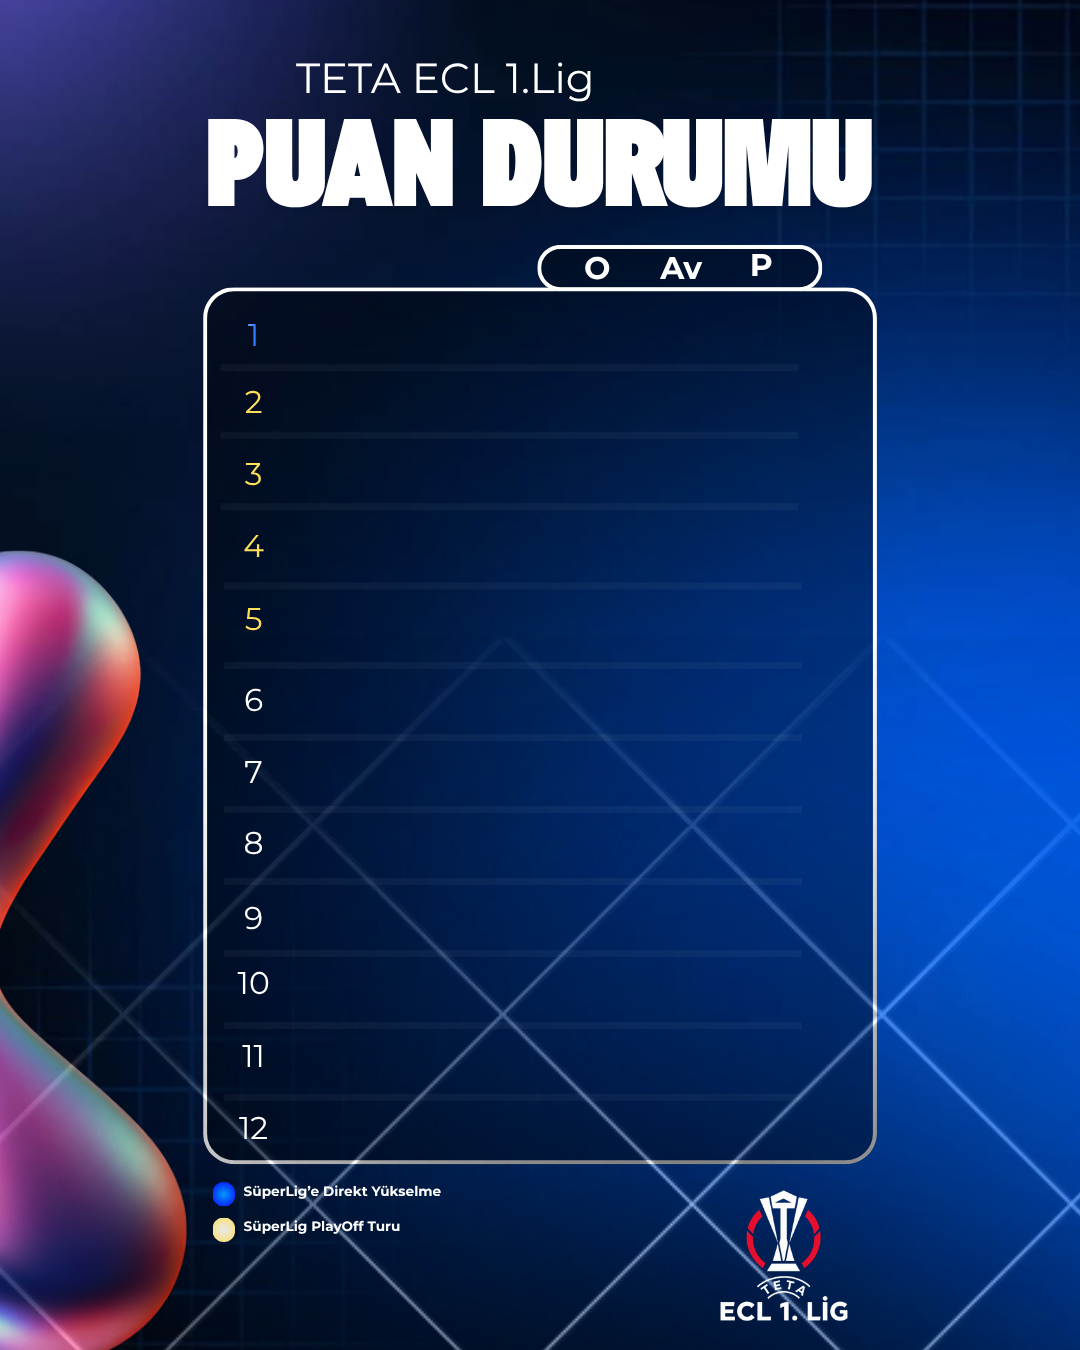
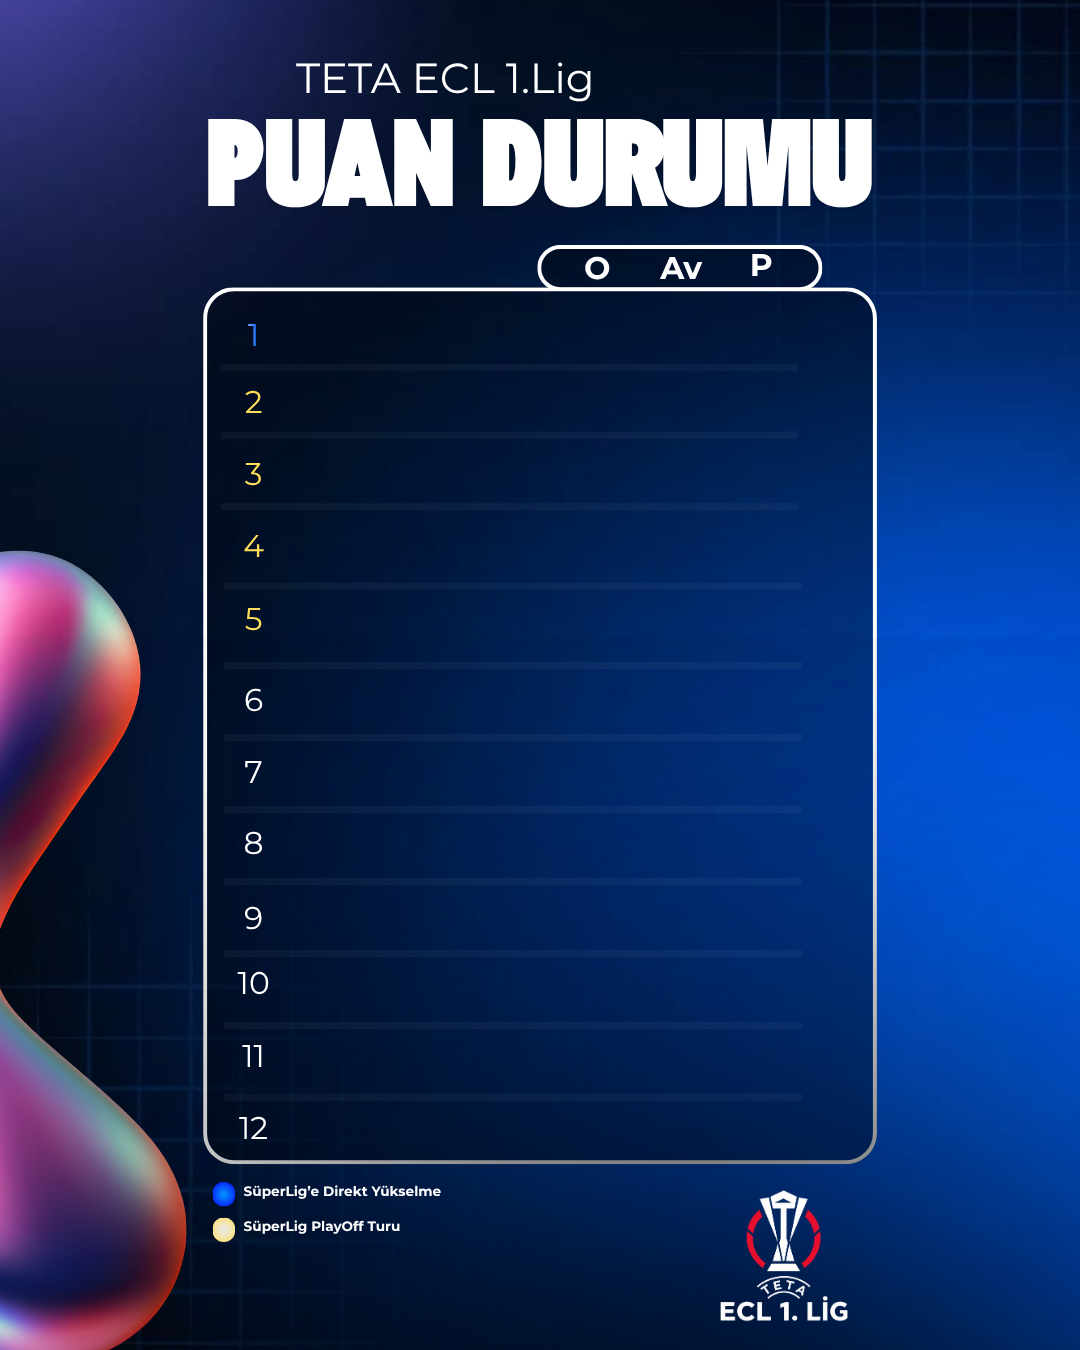
feat(paylasim): watermark-free standings backgrounds and ECL short team names

diff --git a/lib/social-posts/render.tsx b/lib/social-posts/render.tsx
@@ -64,6 +64,9 @@ const POST_TEAM_NAMES: Record<string, string> = {
   'BEYKOZ ESPOR': 'BEYKOZ ESP',
   'FROSTGARD FC': 'FROSTGARD FC',
   'ANADOLU ESPOR': 'ANADOLU ESP',
+  'PARADOX UNITED': 'PARADOX UTD',
+  'ATMACA ESPOR': 'ATMACA ESP',
+  'HARCHESTER UNITED': 'HARCHESTER UTD',
 };
 const postTeamName = (name: string) => POST_TEAM_NAMES[upper(name)] ?? upper(name);
 
@@ -81,7 +84,7 @@ const STANDINGS_LAYOUT: Record<
     numberY: [341.5, 412.5, 480.5, 555.5, 636.5, 710.5, 781.5, 855.5, 925.5, 997.5, 1069.5, 1137.5],
   },
   ecl: {
-    teamX: 300,
+    teamX: 298,
     teamMaxWidth: 262,
     teamSize: 27,
     columns: [596, 683, 765],
